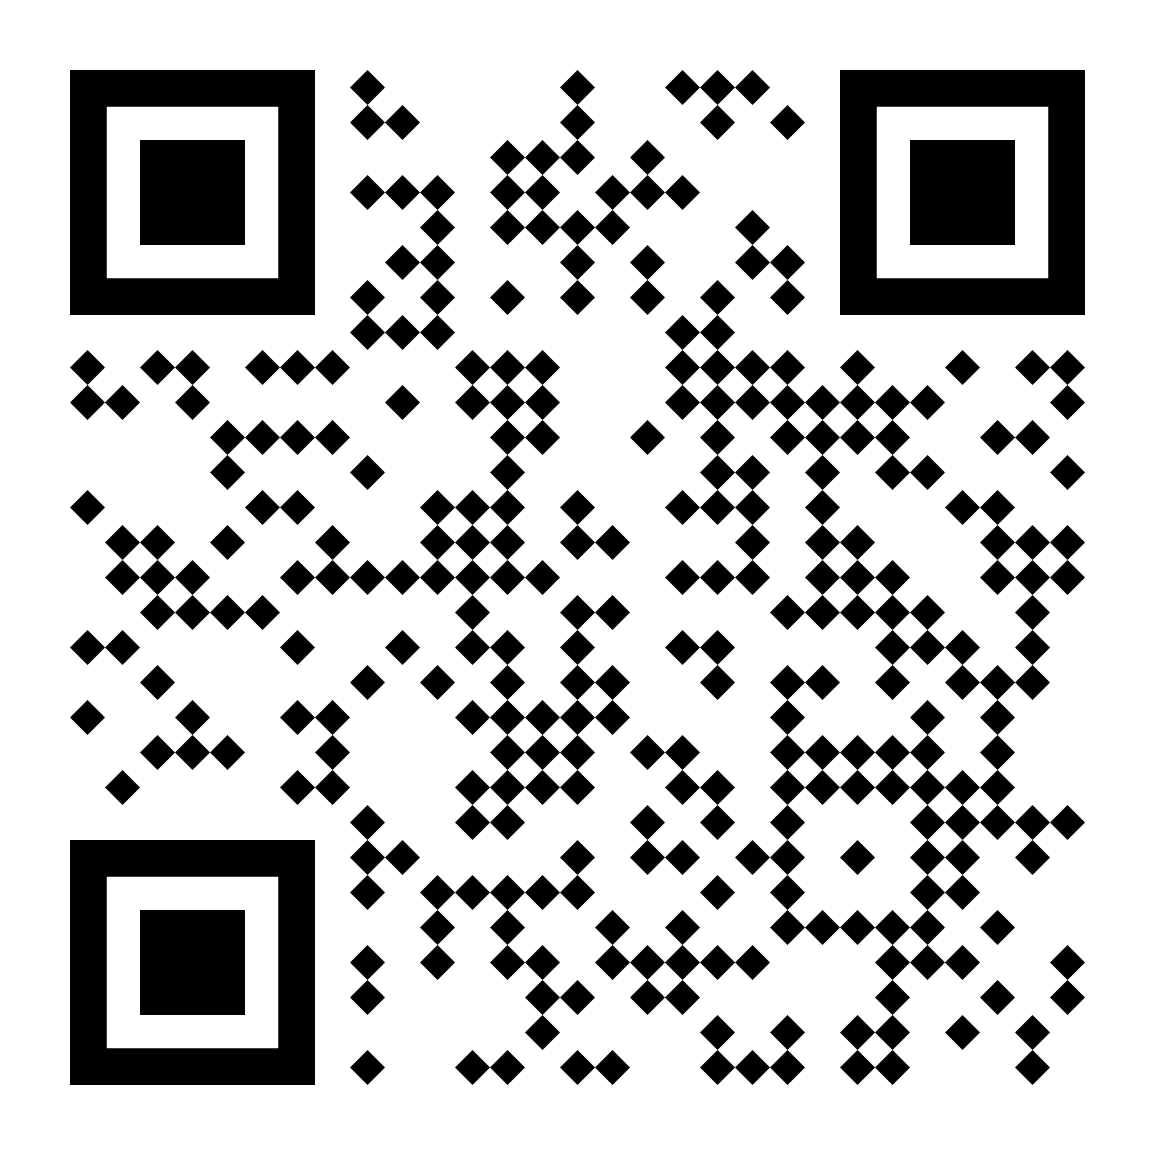
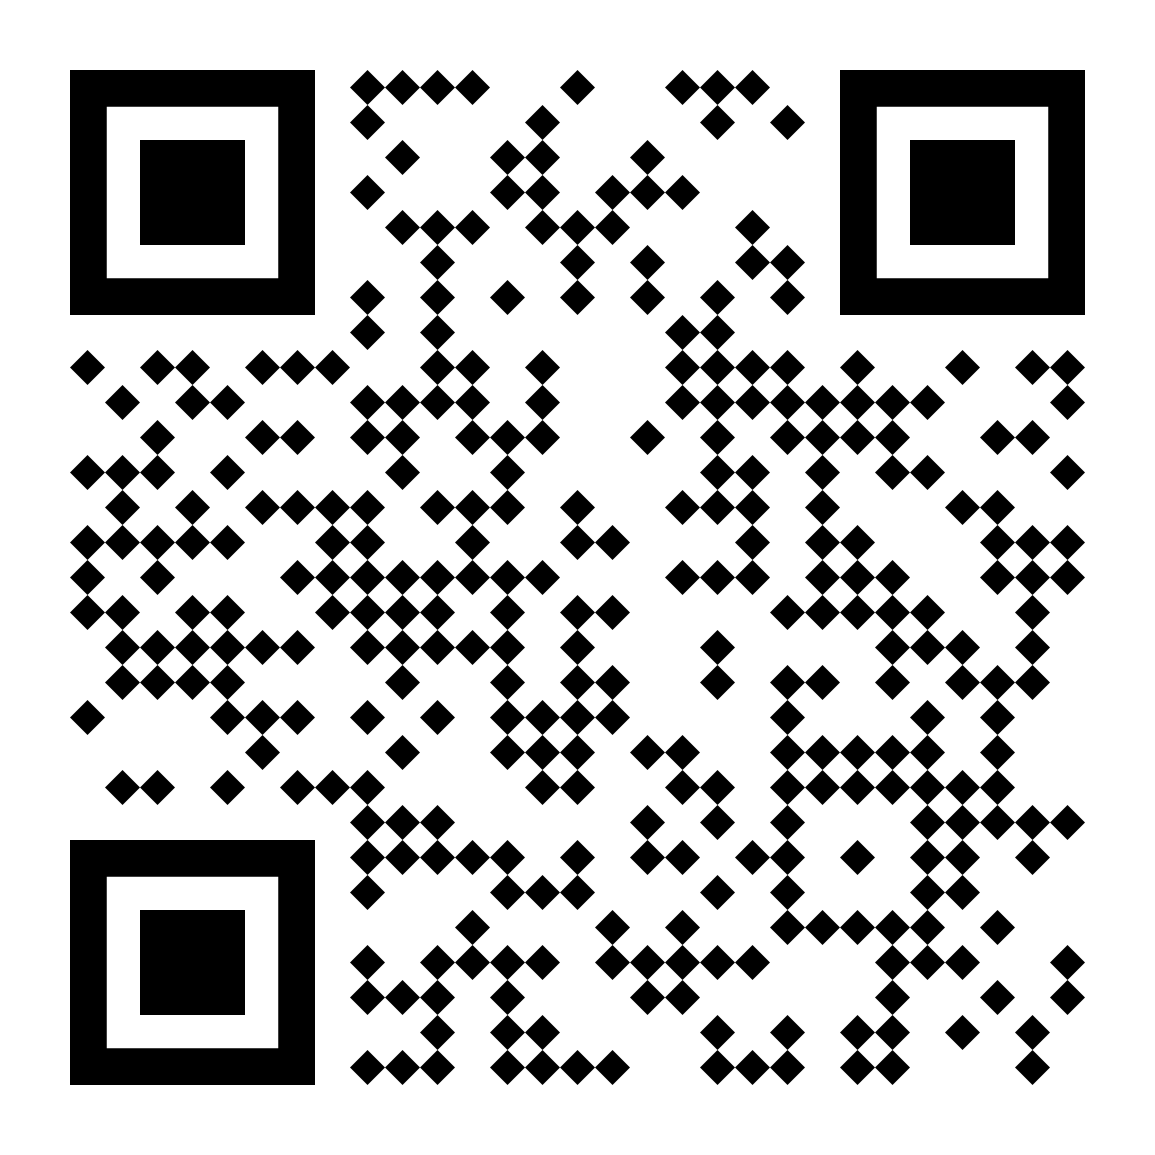
links1

diff --git a/index.html b/index.html
@@ -92,7 +92,7 @@
       <section class="botones">
         <a href="#" class="boton_compartir">Compartir</a>
         <a
-          href="https://drive.google.com/file/d/1UUhyFTXD8Ue5y8kOy1QZm7sD5kpDdUSa/view?usp=drive_link"
+          href="https://drive.google.com/file/d/1eNmIsQvZWJOGrb4izdnZiofDEH62nkN4/view?usp=sharing"
           class="boton_guardar"
           >Guardar contacto</a
         >
